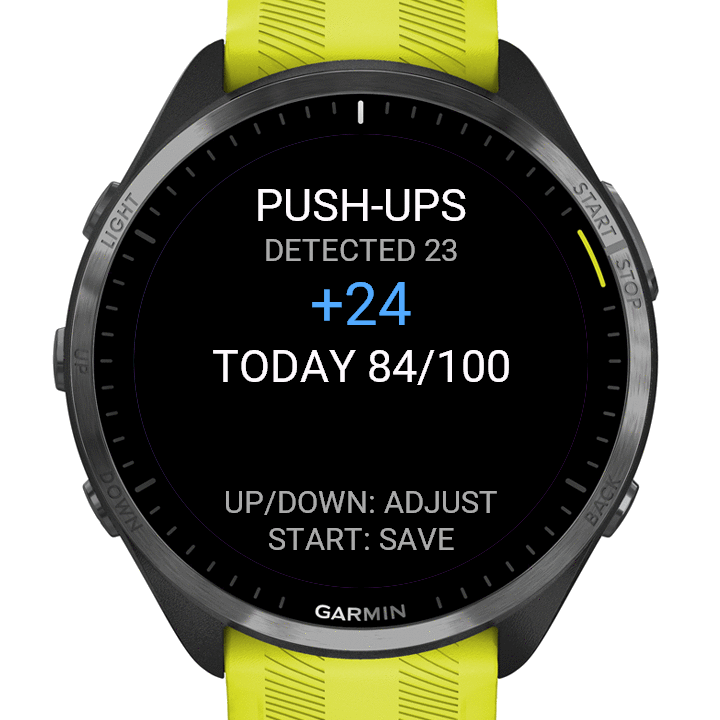
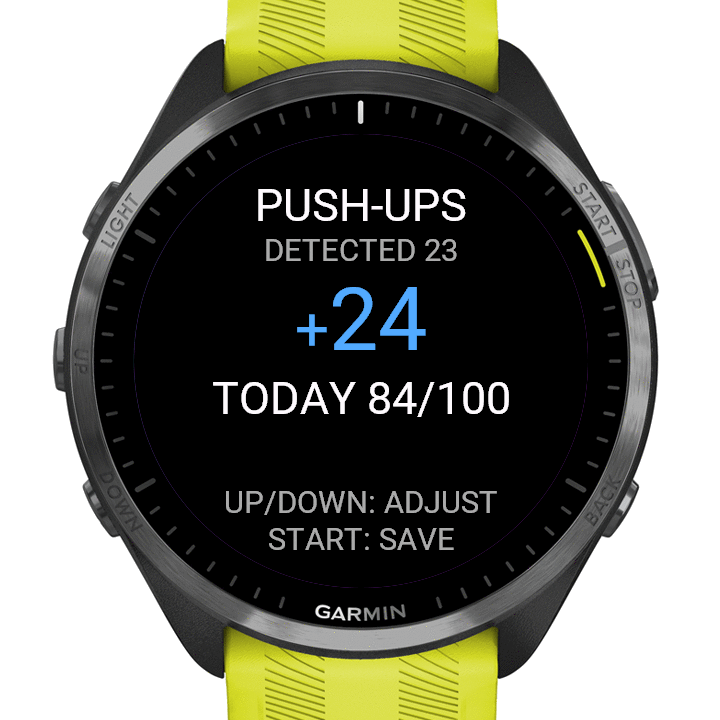
feat(HeroSet): big review number, CAL -- until 1, no Instinct STREAK 0
From the 2026-10-05 design critique (owner: do your picks):
- review screen draws the delta START saves as the big number (number
  font digits, FONT_LARGE sign on their baseline; round screens)
- set screen calories read -- until the estimate reaches 1
- Instinct dashboard leaves out the streak row at zero (STREAK 0 read
  as a failure on day one)
Tests 116 (store 103) PASSED on fr965, fr255s, venu3, instincte40mm,
instinct2. Listing shots 2, 3, 5 and hero re-framed. ROADMAP 13.21-13.23.

Adds reports/Design critique 2026-10-05.md, the running log for the
evening summary.

Claude-Session: https://claude.ai/code/session_01VBnXC1zGyaFSzHFynsMi4H

Changed region(s): [[0.3056, 0.3667, 0.7333, 0.5806]]

diff --git a/HeroSet/docs/input-and-ux.md b/HeroSet/docs/input-and-ux.md
@@ -12,7 +12,7 @@ Top to bottom ([ADR-031](decisions.md#adr-031)):
 - **`RANK N`** (gold), then **`N XP TO RANK M`** (muted; `N XP TO GO` if numbers outgrow row): say what XP for.
 - **Three mission bars**: label + today count on one line, thick bar under it (blue while in progress, full + green at goal). Finished row label read `PUSH-UPS DONE` — done never rely on color alone. Where a translated `DONE` label can't share its row with the count even at the smallest font (7 languages on 360 px), rows drop the word and the full bar + count at goal carry it ([ADR-049](decisions.md#adr-049)). All rows share one left/right edge, measured inside ring, so labels, counts, bars line up as columns.
 - **Streak line**: `N DAY STREAK` (`STREAK N` if no fit), muted while today still open, gold once today mission complete; `NO STREAK
-  YET` at 0. Missed day show 0 immediately, not old run.
+  YET` at 0; beside the Instinct's window, where that does not fit, no streak row at 0 (was `STREAK 0`, which read as a failure on day one; 2026-10-05, ROADMAP 13.23). Missed day show 0 immediately, not old run.
 - **Footer**: menu hint (`START: MENU`), or `MISSION COMPLETE` (green) once all three goals met; storage write failure (`! COULD NOT
   SAVE`, red) override both. Sits in ring bottom gap at one fixed y — nothing shift when it change.
 
@@ -20,10 +20,10 @@ XP: 2 per rep, counted up to 100 reps per exercise per day whatever your goal is
 
 **Native menus**: Up/Down move, START activate, Back return. Main menu (titled HeroSet) show today progress under each Start item (`42/100` or `DONE`, `100` = your own goal), open focused on Start item of first exercise not yet at goal (top of list when all done) — next set usually one START. Log Push-ups/Sit-ups/Squats open manual picker. **Daily Goal** (sublabel = current goal) open goal picker.
 
-**Exercise session**: counting start instant screen open — no pause/resume, no adjustment menu. Rep count dominant, in effort blue (gold reserved for what is saved, [ADR-041](decisions.md#adr-041)); below it `TODAY N/<goal>` (stored + counted so far), then elapsed set time (mm:ss) with live HR and estimated-calories-for-this-set readout ([ADR-021](decisions.md#adr-021)), refreshed every second; if the accelerometer refuses to start, that row reads `NO SENSOR` in red instead of sitting silently at 0. Each rep tap once; rep that carry today total over goal give double tap instead (once per set). START = Finish (`START: FINISH`), open manual delta picker (below) pre-loaded with detected count so miscount fixable before save — nothing banked until picker saved. Back with nothing to save (zero reps, or a lone rep learned to be getting up) leave directly. Back with reps open `N reps` menu (Garmin activity-end pattern, [ADR-028](decisions.md#adr-028)): **Resume** (or Back) return to counting; **Save** bank the count as-is (the detected count, minus a getting-up rep the learner drops, [ADR-040](decisions.md#adr-040)), no correction step, return to dashboard; **Discard** drop set, return to dashboard, show `DISCARDED`. No FIT activity created in store build (see Sync below).
+**Exercise session**: counting start instant screen open — no pause/resume, no adjustment menu. Rep count dominant, in effort blue (gold reserved for what is saved, [ADR-041](decisions.md#adr-041)); below it `TODAY N/<goal>` (stored + counted so far), then elapsed set time (mm:ss) with live HR and estimated-calories-for-this-set readout ([ADR-021](decisions.md#adr-021)), refreshed every second; calories read `--` until the estimate reaches 1 (a set's first seconds round to 0, and `CAL 0` read as broken; 2026-10-05, ROADMAP 13.22); if the accelerometer refuses to start, that row reads `NO SENSOR` in red instead of sitting silently at 0. Each rep tap once; rep that carry today total over goal give double tap instead (once per set). START = Finish (`START: FINISH`), open manual delta picker (below) pre-loaded with detected count so miscount fixable before save — nothing banked until picker saved. Back with nothing to save (zero reps, or a lone rep learned to be getting up) leave directly. Back with reps open `N reps` menu (Garmin activity-end pattern, [ADR-028](decisions.md#adr-028)): **Resume** (or Back) return to counting; **Save** bank the count as-is (the detected count, minus a getting-up rep the learner drops, [ADR-040](decisions.md#adr-040)), no correction step, return to dashboard; **Discard** drop set, return to dashboard, show `DISCARDED`. No FIT activity created in store build (see Sync below).
 
 **Manual entry**: Main menu → Log <exercise>, or automatic after finishing workout set ([ADR-024](decisions.md#adr-024)). Continuous delta picker open (at 0 from menu, at detected count after workout, with `DETECTED N` subtitle, `DETECTED N (-1)` when the learned getting-up rep was dropped so it matches the workout screen's N): each Up/Down press step delta by exactly 1 (`UP/DOWN:
-ADJUST`); deliberately no hold-to-accelerate (ADR-029), so big manual entry take one press per rep. Delta never drop below minus today stored count. Delta show white at 0, blue when positive, red when negative (green only means a goal met); `TODAY N/<goal>` show what today total become if saved. START bank delta (`START: SAVE`), return to dashboard. Back with zero delta leave directly; with pending delta open `+N reps` menu: **Save** bank + return to dashboard, **Discard** return to dashboard without saving (show `DISCARDED`; nothing logged to validation log), **Keep Editing** (or Back) return to picker unchanged.
+ADJUST`); deliberately no hold-to-accelerate (ADR-029), so big manual entry take one press per rep. Delta never drop below minus today stored count. On a round screen the delta is the big number (digits in the largest number font that fits above `TODAY` and the hints, the sign in `FONT_LARGE` on their baseline; 2026-10-05, ROADMAP 13.21: it is what START saves, and it was the same size as the rows around it); beside the Instinct's window it stays `FONT_LARGE`. Delta show white at 0, blue when positive, red when negative (green only means a goal met); `TODAY N/<goal>` show what today total become if saved. START bank delta (`START: SAVE`), return to dashboard. Back with zero delta leave directly; with pending delta open `+N reps` menu: **Save** bank + return to dashboard, **Discard** return to dashboard without saving (show `DISCARDED`; nothing logged to validation log), **Keep Editing** (or Back) return to picker unchanged.
 
 **Daily goal**: Main menu → Daily Goal ([ADR-045](decisions.md#adr-045)). Picker show `DAILY GOAL` title and current goal in effort blue: each Up/Down press step by 10 between 10 and 500, no hold-to-accelerate ([ADR-029](decisions.md#adr-029)). START save and return to dashboard (`GOAL N` toast), publish new goal to HeroFace at once; START with the goal unchanged just returns, no toast. Back with unchanged value leave directly; with change open same Save/Discard/Keep Editing menu as manual picker. Lower goal below today counts complete today mission immediately (mission toast + streak). XP unaffected: goal never change what a rep is worth.
 

diff --git a/reports/Design critique 2026-10-05.md b/reports/Design critique 2026-10-05.md
@@ -1,0 +1,41 @@
+# Design critique 2026-10-05: running log
+
+Working notes for the evening executive summary. One project at a time, from the listing screenshots and simulator runs
+(UI and UX). The owner answered every round with "do your picks". Everything below is **simulator only**: nothing has been
+on a wrist, and nothing reaches users until the owner uploads the next version of each app. Items are ROADMAP 13.x.
+
+## Done, per project
+
+| Project | What changed (user-visible) | ROADMAP | Commits |
+|---|---|---|---|
+| Days To Go | Ring is full only on the day (was full at 365 days) and keeps draining through the last 24 h instead of jumping to near full | 13.1 | `8e2314d` |
+| Days To Go Pro | Last 24 h read `8h 06m` (small h/m), not `8:06 HOURS`, which looked like a second clock | 13.2 | `cc01749` |
+| Days To Go | Drawn arrow before the event's date while it is ahead (it read as today's date); Pro footer gets a battery or footprints mark | 13.3, 13.4 | `24877e6` |
+| Days To Go | Ring direction (drains) kept | 13.6 | `cc01749` |
+| HeroFace | Drawn icons replace `STEP`/`CAL`/`INT`/`FLR`; streak + temperature one centred group (no jumping); Free's empty band closed; MOVE shows nothing until it alerts (red GO) | 13.8–13.12 | `b2fa837`, `2ce547b` |
+| Two Suns Pro | Weather and watch battery rows Off by default (listing showed them off, buyers got them on); compact weather row = current conditions only | 13.13, 13.14 | `ac96202` |
+| Two Suns | Energy curve is a line (its fill was the night ring's colour); solid bolt (half-grey gauge read as broken); `7h 22m of daylight` not `7:22` | 13.15–13.17 | `ac96202` |
+| DayArc | Body Battery hero icon is a bolt (battery shell read as a second battery); Pro grid icons all muted grey (rainbow competed with the hero) | 13.19, 13.20 | `8e316d4` |
+| Studio | The bolt means Body Battery everywhere; intensity minutes are a pulse line (HeroFace, DayArc) | 13.19 | `2ce547b`, `8e316d4` |
+| HeroSet | Review screen: `+24` (what START saves) is the big number; `CAL --` until 1, not `CAL 0`; Instinct: no `STREAK 0` row on day one | 13.21–13.23 | (this commit) |
+
+Every changed listing image set was recaptured (both tiers where both changed) and its store hero re-rendered.
+
+## Tooling fixed on the way
+
+- HeroFace `tools/listing_shots.sh` now clears the simulator's stored app settings per scene (the Pro accent/seconds shot was silently coming out as the default).
+- Two Suns: the new `h`/`m` strings needed a copy in every language folder to keep the zero-warning compile (English letters, flagged under 13.7).
+
+## Checks run
+
+- Unit suites in the container simulator after every change, on 5 to 8 devices per project including an Instinct and a small round watch; all PASSED at the end.
+- Full compile sweeps, both tiers: Days To Go 127/127, HeroFace 124/124, Two Suns 72/72, DayArc 72/72. HeroSet: store build tests 103 PASSED.
+
+## Open for the owner
+
+- **13.5** Days To Go time-zone list: city hints (parked by the owner for later).
+- **13.7** The `h`/`m` letters (Days To Go Pro, Two Suns) are English on every watch; "m" can read as metres. Keep, use "min", or translate.
+- **13.18** Two Suns site pages still say "8:41 of daylight" and draw a filled curve; a site push deploys, so it waits for the OK.
+- **Uploads:** every change ships only with each app's next version (Days To Go both tiers, HeroFace both, Two Suns both, DayArc first submission, HeroSet 1.3.2). New listing images go up with them (10.5).
+- **Looks:** the owner approves looks before upload: review `*/listing*/screens*/` for each project.
+- **DayArc wear check (1.1)** was running today on the FR965 with the builds from before these changes (sideloaded in the morning).

diff --git a/HeroSet/CHANGELOG.md b/HeroSet/CHANGELOG.md
@@ -4,6 +4,15 @@ One entry per Connect IQ Store publication, newest first. The store's
 "What's New" text for each version is in [`listing/paste.md`](listing/paste.md); the why is in
 the ADRs named. Dates are upload dates; review status follows.
 
+## Unreleased (1.3.2 candidate)
+
+Design critique 2026-10-05 (owner said "do your picks"; ROADMAP 13.21 to 13.23; simulator only, nothing on a wrist). Tests 116 (store 103), unchanged in count, PASSED on fr965, fr255s, venu3, instincte40mm, instinct2.
+
+- **Review screen: the amount to save is the big number.** `+24` is drawn in a number font with its sign beside it, under the small `DETECTED 23`; it was the same size as the rows around it.
+- **Set screen: calories read `--` until the estimate reaches 1**, not `CAL 0` in a set's first seconds.
+- **Instinct dashboard: no `STREAK 0`.** At zero the streak row is left out beside the window (the round dashboard keeps `NO STREAK YET`).
+- Listing shots 2, 3 and 5 and the hero re-framed.
+
 ## 1.3.1 — uploaded 2026-10-04 by the owner, in review (fixes and the Instinct glance layout)
 
 Update of the live app, set on the USD 2.50 price tier in the form ([ADR-056](docs/decisions.md#adr-056), the $2.50 tier for every paid app). 1.3.0 is live until Garmin approves this (uploaded by the owner 2026-10-03, exported before the fixes below). 1.3.1 changes no product and no permission (87 products, `Sensor` + `ComplicationPublisher`).

diff --git a/ROADMAP.md b/ROADMAP.md
@@ -41,6 +41,9 @@ Do not keep open checkboxes anywhere else. Status 2026-10-05.
 - [ ] 13.18 `[you]` Site, Two Suns: `site/src/apps/two-suns/` (Landing, Support, FacePreview) still says "8:41 of daylight" and draws a filled curve. Update with the next Two Suns upload; a push deploys the site, so it waits for your OK.
 - [x] 13.19 `[you]` DayArc: the evening hero's battery shell read as a second battery beside Pro's watch-battery pill. **Decided 2026-10-05 (owner: "do your picks"): built** as a bolt (as Two Suns). Intensity icons became a pulse line in DayArc's grid and HeroFace, so the bolt means Body Battery across the studio.
 - [x] 13.20 `[you]` DayArc Pro: the grid icons' per-type rainbow competed with the hero. **Built 2026-10-05:** all grid icons muted grey (DayArc ADR-013 (icon system) amendment). Judge both on the wrist with 1.1.
+- [x] 13.21 `[you]` HeroSet: the review screen's `+24` (what START saves) was the same size as `DETECTED 23` and `TODAY 84/100`. **Decided 2026-10-05 (owner: "do your picks"): built**, the big number (round screens). Ships as 1.3.2 with 13.22, 13.23.
+- [x] 13.22 `[you]` HeroSet: `CAL 0` early in a set looked broken. **Built 2026-10-05:** `--` until 1.
+- [x] 13.23 `[you]` HeroSet Instinct: `STREAK 0` on day one. **Built 2026-10-05:** no streak row at zero beside the window.
 
 ## 2. Your hands (a watch, the store dashboard, a person)
 
